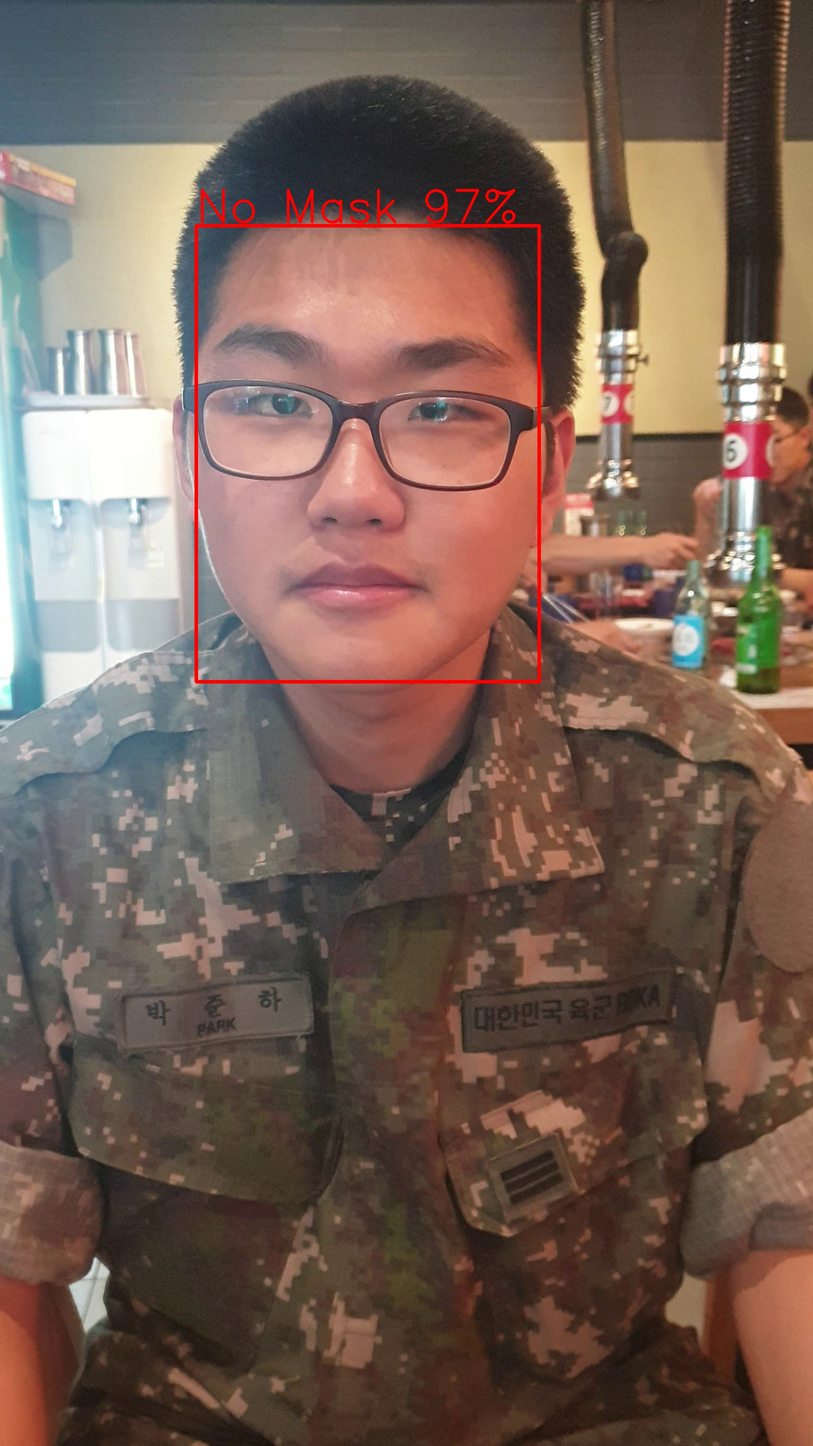
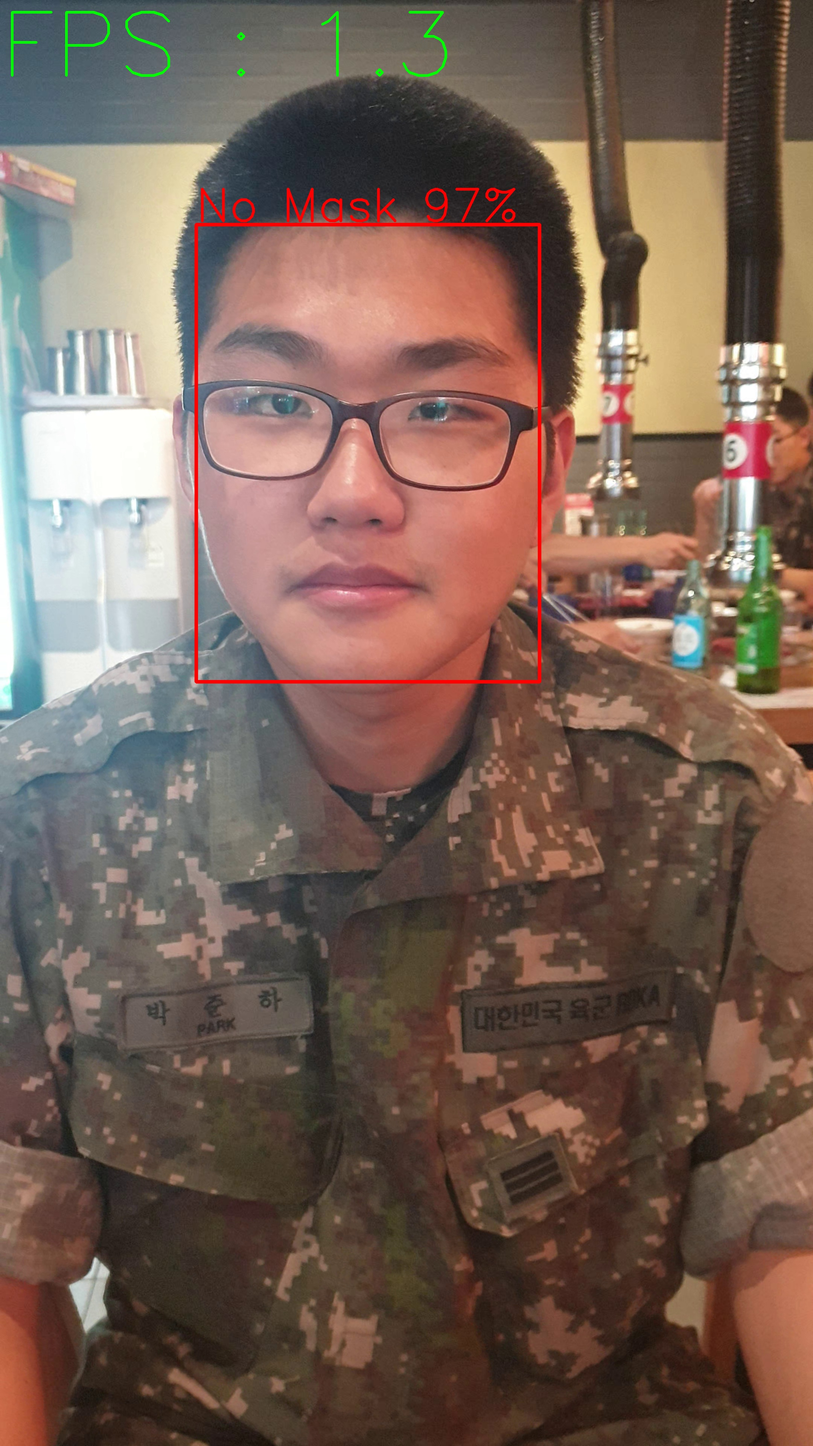
얼굴 사진 추가, 이름 검출 삭제

diff --git a/ui_main_python04.py b/ui_main_python04.py
@@ -83,6 +83,14 @@ class MainWindow(QWidget):
         for text in textdq:
             TEXT += text + '\n'
         self.ui.label_2.setText(TEXT)
+    def put_img_to_labels(self, face):        
+        image = face       
+        image = cv2.resize(image, dsize=(0, 0), fx=0.2, fy=0.2, interpolation=cv2.INTER_LINEAR)
+        image = cv2.cvtColor(image, cv2.COLOR_BGR2RGB)
+        height, width, channel = image.shape
+        step = channel * width
+        qImg = QImage(image.data, width, height, step, QImage.Format_RGB888)
+        self.ui.label.setPixmap(QPixmap.fromImage(qImg))
     # view camera
     def viewCam(self): # 실시간 영상 보여줌
         ret, img = self.cap.read()
@@ -155,7 +163,7 @@ class MainWindow(QWidget):
                 self.number += 1
                 saved_file = 'No_Mask_File/' + str(i)+'_'+str('No_Mask%d%%_' % (nomask * 100) + str(self.number)) + '.jpg'
                 cv2.imwrite(saved_file, result_img)
-                #self.put_img_to_labels(self.dq)
+                self.put_img_to_labels(face)
                 temperature = 36.5  # 현재 온도 변수가 없으므로 임시로 설정
 
 
@@ -166,27 +174,27 @@ class MainWindow(QWidget):
 
                 #########################이름표 검출 코드####################################################
 
-                IMAGE_FILE = 'No_Mask_File/' + str(i) + '_' + str('No_Mask%d%%_' % (nomask * 100) + str(self.number)) + '.jpg'
-                with io.open(IMAGE_FILE, 'rb') as image_file:
-                    content = image_file.read()
-                image = vision.Image(content=content)
-                response = client.document_text_detection(image=image)
+                # IMAGE_FILE = 'No_Mask_File/' + str(i) + '_' + str('No_Mask%d%%_' % (nomask * 100) + str(self.number)) + '.jpg'
+                # with io.open(IMAGE_FILE, 'rb') as image_file:
+                #     content = image_file.read()
+                # image = vision.Image(content=content)
+                # response = client.document_text_detection(image=image)
                 Final_Text = ""
-                # response 에는 글자 좌표값이 있음. 밑에 코드는 얼굴절반보다 왼쪽 아래에 있는 글씨중에 한글만 가져옴.
-                # 따라서 마스크를 안쓰는 얼굴이 검출 안되면 글자도 검출 안함.
-                for data in response.text_annotations:
-                    xx1 = data.bounding_poly.vertices[0].x - 60 # 박스가 너무 오른쪽으로 나옴 그래서 수정함.
-                    yy1 = data.bounding_poly.vertices[0].y
-                    xx2 = data.bounding_poly.vertices[2].x
-                    yy2 = data.bounding_poly.vertices[2].y + 20
-                    if xx1 > (x1+x2)//2 or xx2 > (x1+x2)//2 or yy1 < y1 or yy2 < y1:
-                        continue
-                    for x in data.description:
-                        if ord('가') <= ord(x) <= ord('힣'):
-                            cv2.rectangle(result_img, pt1=(xx1, yy1), pt2=(xx2, yy2), thickness=7, color=color, lineType=cv2.LINE_AA)
-                            Final_Text += x
+                # # response 에는 글자 좌표값이 있음. 밑에 코드는 얼굴절반보다 왼쪽 아래에 있는 글씨중에 한글만 가져옴.
+                # # 따라서 마스크를 안쓰는 얼굴이 검출 안되면 글자도 검출 안함.
+                # for data in response.text_annotations:
+                #     xx1 = data.bounding_poly.vertices[0].x - 60 # 박스가 너무 오른쪽으로 나옴 그래서 수정함.
+                #     yy1 = data.bounding_poly.vertices[0].y
+                #     xx2 = data.bounding_poly.vertices[2].x
+                #     yy2 = data.bounding_poly.vertices[2].y + 20
+                #     if xx1 > (x1+x2)//2 or xx2 > (x1+x2)//2 or yy1 < y1 or yy2 < y1:
+                #         continue
+                #     for x in data.description:
+                #         if ord('가') <= ord(x) <= ord('힣'):
+                #             cv2.rectangle(result_img, pt1=(xx1, yy1), pt2=(xx2, yy2), thickness=7, color=color, lineType=cv2.LINE_AA)
+                #             Final_Text += x
 
-                print('한글 -> ' + Final_Text)
+                # print('한글 -> ' + Final_Text)
 
                 #############################################################################
 
@@ -262,10 +270,23 @@ class MainWindow(QWidget):
 
 
         # message_description2 는 로그 보여주는 용도 엔터(\n)를 없앴음.
-        message_description2 = '이름 :' + Final_Text + ' 해당인원 온도 :' + str(temperature) + ' 마스크 미착용 확률 : ' + str('%d%%' % (nomask * 100))
-        self.textdq.appendleft(message_description2)
+
+
+
+        #################################################log 메세지 알려주는곳
+        # message_description2 = '이름 :' + Final_Text + ' 해당인원 온도 :' + str(temperature) + ' 마스크 미착용 확률 : ' + str('%d%%' % (nomask * 100))
+        # self.textdq.appendleft(message_description2)
+    
+        # self.label_2_text(self.textdq)
+
+        self.textdq.appendleft(message_description)
     
         self.label_2_text(self.textdq)
+        #################################################
+
+
+
+
         #self.ui.label_2.setText(self.textdq[0])
         #image = cv2.rotate(image, cv2.ROTATE_90_CLOCKWISE)
         image = cv2.resize(result_img, dsize=(0, 0), fx=0.2, fy=0.2, interpolation=cv2.INTER_LINEAR)
